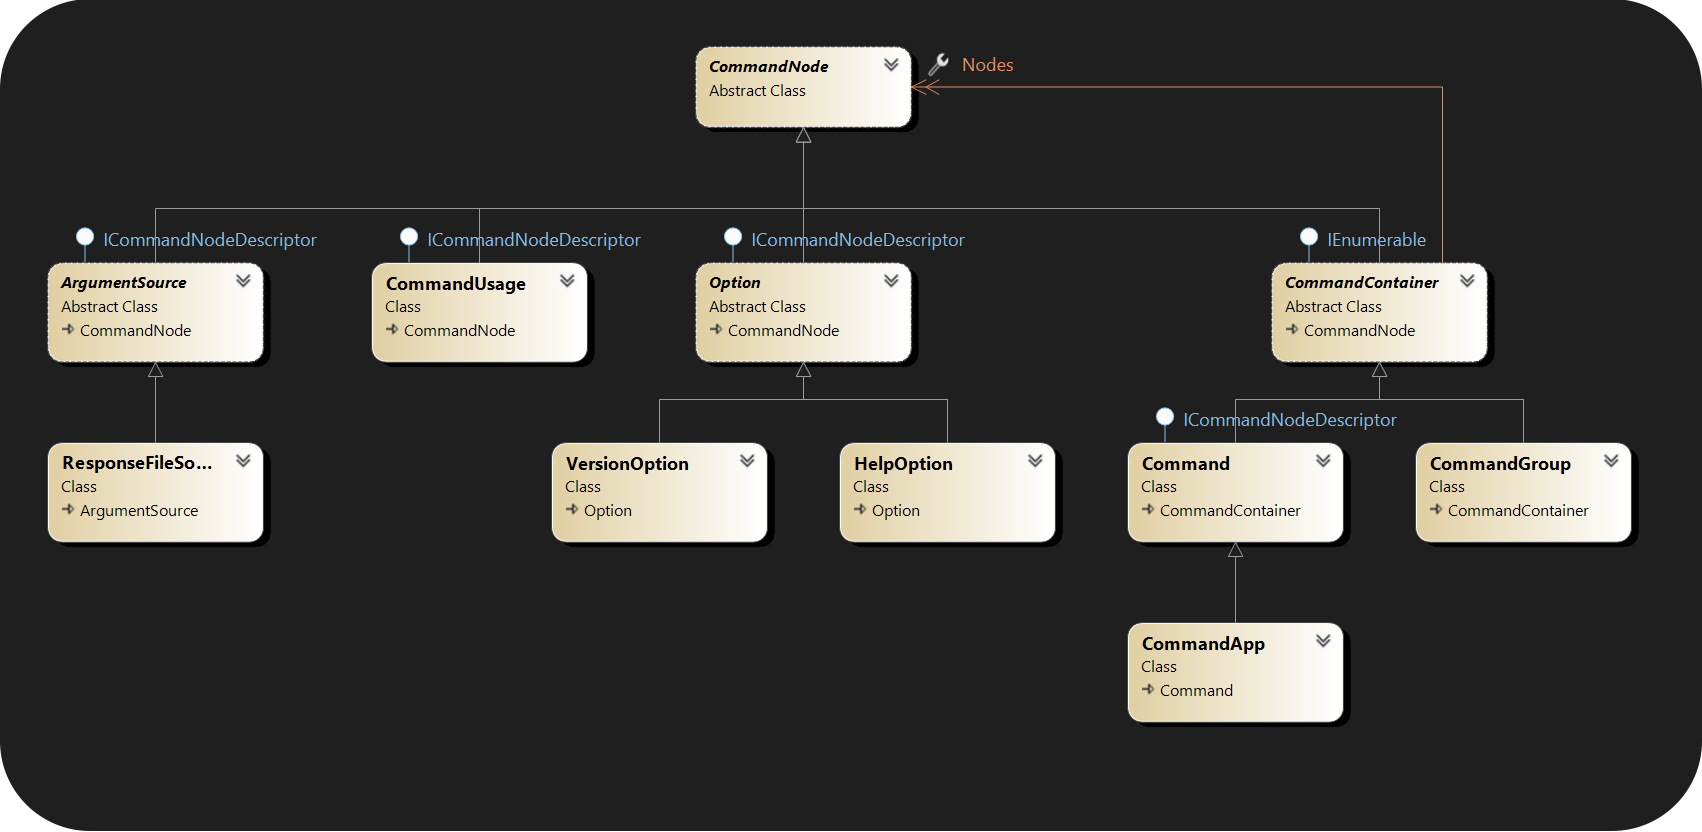
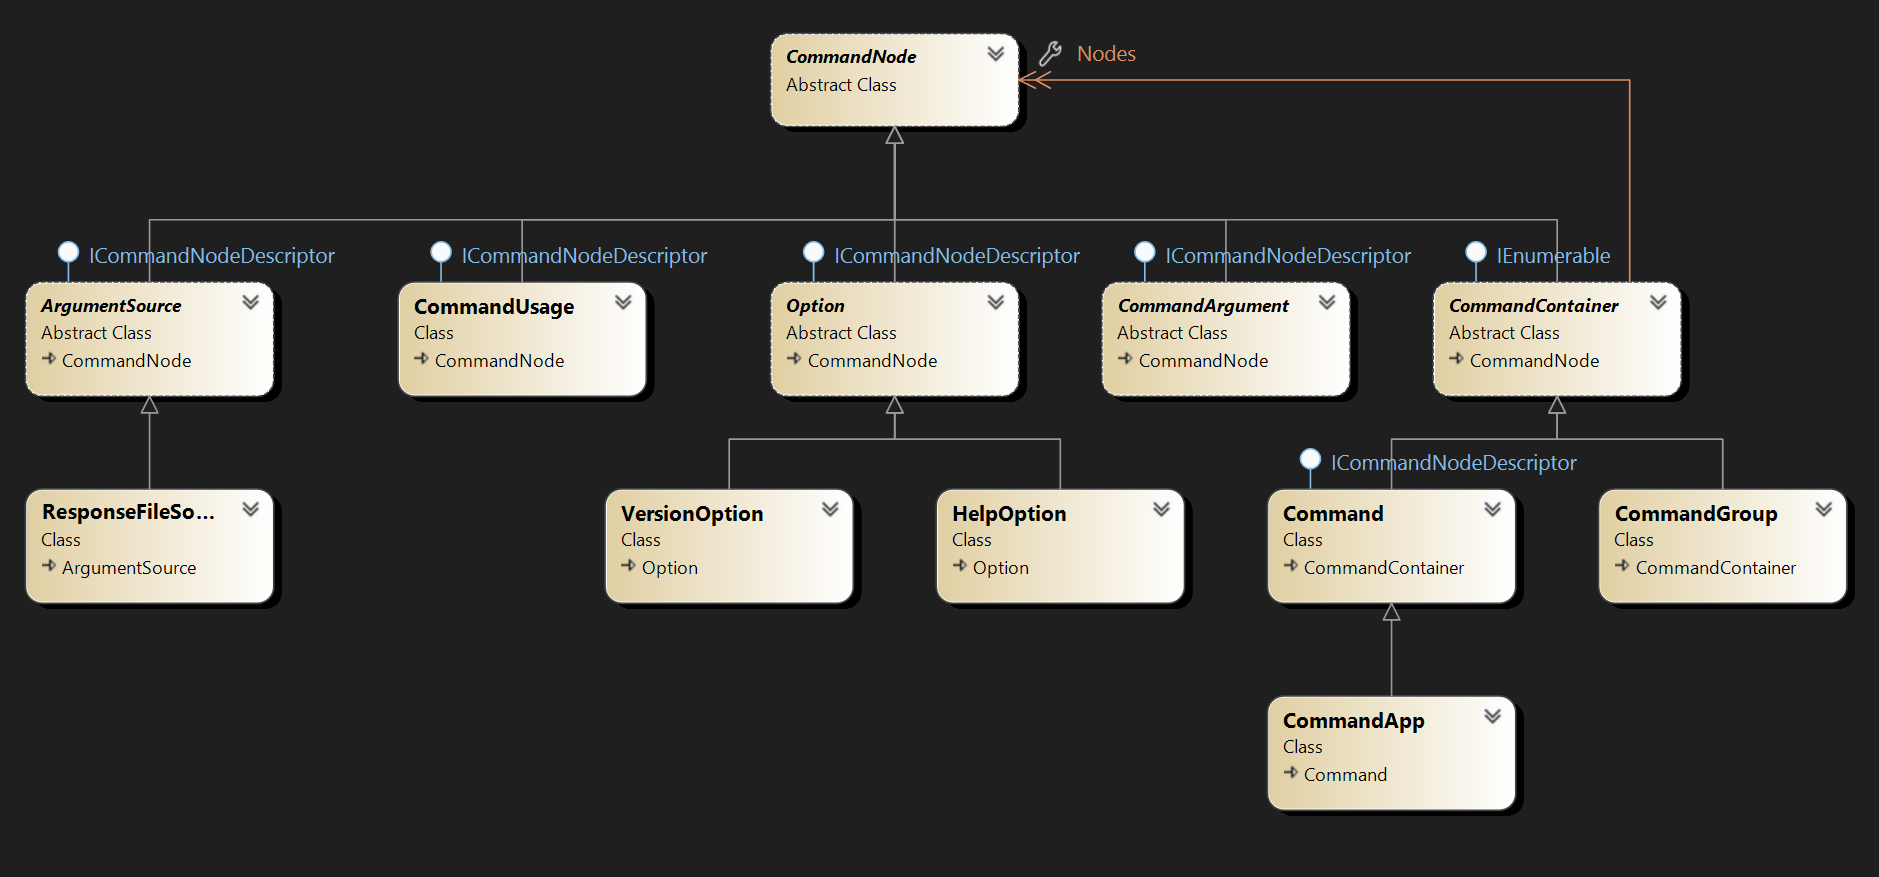
Add automatic CommandUsage

diff --git a/src/XenoAtom.CommandLine/Command.cs b/src/XenoAtom.CommandLine/Command.cs
@@ -892,32 +892,74 @@ public partial class Command  : CommandContainer, ICommandNodeDescriptor
         var _ = Config.Localizer;
         usage.Append(_("Usage: "));
         usage.Append(GetFullCommandPath());
-        if (_options.Count > 0)
+        var syntax = GetDefaultUsageSyntax();
+        if (syntax.Length > 0)
         {
-            usage.Append(" [");
-            usage.Append(OptionsName);
-            usage.Append(']');
+            usage.Append(' ');
+            usage.Append(syntax);
+        }
+        return usage.ToString();
+    }
+
+    internal string GetDefaultUsageSyntax()
+    {
+        var _ = Config.Localizer;
+
+        var hasVisibleOptions = false;
+        foreach (var node in Nodes)
+        {
+            if (node is not Option option)
+                continue;
+            if (!option.IsActive() || option.Hidden)
+                continue;
+            if (option.Names.Length == 1 && option.Names[0] == "<>")
+                continue;
+            hasVisibleOptions = true;
+            break;
         }
 
-        if (SubCommands.Count > 0)
+        var hasVisibleSubCommands = false;
+        foreach (var node in Nodes)
         {
-            usage.Append(_(" COMMAND"));
+            if (node is not Command command)
+                continue;
+            if (!command.IsActive() || command.Hidden)
+                continue;
+            hasVisibleSubCommands = true;
+            break;
         }
 
+        var sb = new StringBuilder();
+
+        if (hasVisibleOptions)
+        {
+            sb.Append(_("[options]"));
+        }
+
+        if (hasVisibleSubCommands)
+        {
+            if (sb.Length > 0) sb.Append(' ');
+            sb.Append(_("<command>"));
+            return sb.ToString();
+        }
+
+        var hasListArgument = false;
         foreach (var argument in _arguments)
         {
             if (!argument.IsActive() || argument.Hidden)
                 continue;
-            usage.Append(' ');
-            usage.Append(argument.GetDisplayName());
+            if (sb.Length > 0) sb.Append(' ');
+            sb.Append(argument.GetDisplayName());
+            hasListArgument = argument.IsList;
         }
 
-        if (_options.TryGetValue("<>", out var def) && def.Description != null)
+        if (!hasListArgument && _options.TryGetValue("<>", out var def) && def.IsActive() && !def.Hidden)
         {
-            usage.Append(' ');
-            usage.Append(def.Description);
+            if (sb.Length > 0) sb.Append(' ');
+            sb.Append(def.Description ?? _("[<args>...]"));
         }
-        return usage.ToString();
+
+        return sb.ToString();
     }
     
 

diff --git a/src/XenoAtom.CommandLine/CommandUsage.cs b/src/XenoAtom.CommandLine/CommandUsage.cs
@@ -20,9 +20,14 @@ public class CommandUsage(string? description) : CommandNode, ICommandNodeDescri
     public const string NameMarker = "{NAME}";
 
     /// <summary>
+    /// Gets the marker used to replace the default syntax of the command (options/arguments/subcommands) from the description.
+    /// </summary>
+    public const string SyntaxMarker = "{SYNTAX}";
+
+    /// <summary>
     /// Creates a new instance of <see cref="CommandUsage"/>, the usage description will be automatically rendered.
     /// </summary>
-    public CommandUsage() : this(null)
+    public CommandUsage() : this("Usage: {NAME} {SYNTAX}")
     {
     }
 
@@ -33,11 +38,13 @@ public class CommandUsage(string? description) : CommandNode, ICommandNodeDescri
         {
             if (Parent != null && _description != null)
             {
-                var index = _description.IndexOf(NameMarker, StringComparison.OrdinalIgnoreCase);
-                if (index >= 0)
+                var command = GetCommand();
+                if (command != null)
                 {
-                    var fullCommandPath = GetFullCommandPath() ?? string.Empty;
-                    return $"{_description.Substring(0, index)}{fullCommandPath}{_description.Substring(index + NameMarker.Length)}";
+                    var result = _description;
+                    result = ReplaceMarker(result, NameMarker, command.GetFullCommandPath());
+                    result = ReplaceMarker(result, SyntaxMarker, command.GetDefaultUsageSyntax());
+                    return result;
                 }
             }
 
@@ -45,16 +52,25 @@ public class CommandUsage(string? description) : CommandNode, ICommandNodeDescri
         }
     }
     
-    private string? GetFullCommandPath()
+    private Command? GetCommand()
     {
         for (var c = (CommandNode)this; c != null; c = c.Parent)
         {
             if (c is Command command)
             {
-                return command.GetFullCommandPath();
+                return command;
             }
         }
 
         return null;
+    }
+
+    private static string ReplaceMarker(string value, string marker, string replacement)
+    {
+        var index = value.IndexOf(marker, StringComparison.OrdinalIgnoreCase);
+        if (index < 0)
+            return value;
+
+        return $"{value.Substring(0, index)}{replacement}{value.Substring(index + marker.Length)}";
     }
 }

diff --git a/src/XenoAtom.CommandLine.Tests/CommandLineBasicTests.cs b/src/XenoAtom.CommandLine.Tests/CommandLineBasicTests.cs
@@ -6,6 +6,26 @@ namespace XenoAtom.CommandLine.Tests;
 public class CommandLineBasicTests
 {
     [TestMethod]
+    public async Task CommandUsage_SyntaxMarker_IsExpanded()
+    {
+        CultureInfo.CurrentCulture = CultureInfo.InvariantCulture;
+
+        var writer = new StringWriter();
+        var app = new CommandApp("app")
+        {
+            new CommandUsage(),
+            { "n|name=", "Name", _ => { } },
+            new HelpOption(),
+            (ctx, _) => ValueTask.FromResult(0)
+        };
+
+        var result = await app.RunAsync(["--help"], new CommandRunConfig { Out = writer, Error = writer });
+
+        Assert.AreEqual(0, result);
+        Assert.IsTrue(writer.ToString().Contains("Usage: app [options]", StringComparison.Ordinal));
+    }
+
+    [TestMethod]
     public async Task PendingValue_MatchesSubcommandName_IsConsumedAsValue()
     {
         CultureInfo.CurrentCulture = CultureInfo.InvariantCulture;

diff --git a/src/XenoAtom.CommandLine.Tests/CommandArgumentTests.cs b/src/XenoAtom.CommandLine.Tests/CommandArgumentTests.cs
@@ -154,7 +154,7 @@ public class CommandArgumentTests
 
         Assert.AreEqual(0, result);
         var output = writer.ToString();
-        Assert.IsTrue(output.Contains("Usage: app [Options] <input> [<output>]", StringComparison.Ordinal));
+        Assert.IsTrue(output.Contains("Usage: app [options] <input> [<output>]", StringComparison.Ordinal));
         Assert.IsTrue(output.Contains("<input>", StringComparison.Ordinal));
         Assert.IsTrue(output.Contains("[<output>]", StringComparison.Ordinal));
     }

diff --git a/doc/readme.md b/doc/readme.md
@@ -54,7 +54,7 @@ int age = 0;
 
 var commandApp = new CommandApp()
 {
-    new CommandUsage("Usage: {NAME} [Options] [files]+"),
+    new CommandUsage(),
     _,
     "Options:",
     {"f|flag", "This is a flag", v => flag = v != null }, 
@@ -187,7 +187,7 @@ Random other tidbits:
   ```
   will display the following message:
   ```
-  Usage: HelloWorld [Options]
+  Usage: HelloWorld [options]
     -n, --name=NAME            Your NAME
     -a, --age=AGE              Your AGE
     -h, -?, --help             Show this message and exit
@@ -312,7 +312,7 @@ var app = new CommandApp("myexe")
 };
 ```
 
-Declared arguments are included in the default usage output (e.g. `Usage: myexe [Options] <input> [<output>]`).
+Declared arguments are included in the default usage output (e.g. `Usage: myexe [options] <input> [<output>]`).
 
 ## Help Text
 
@@ -333,11 +333,11 @@ await app.RunAsync(args);
 
 More in general, all the items (`CommandNode`: `Command`, `Option`, `string`, `ArgumentSource`, `Action`...) within a `Command` or a `CommandApp` are kept in order when displayed in the help message.
 
-There is a special kind of text called `CommandUsage` that will be displayed at the beginning of the help message. It is used to display the usage of the command.
+There is a special kind of text called `CommandUsage` that will be displayed at the beginning of the help message. It is used to display the usage of the command. You can use `{NAME}` to inject the full command path and `{SYNTAX}` to inject the default syntax derived from options/arguments/subcommands.
 
 ```csharp
 var app = new CommandApp() {
-    new CommandUsage("Usage: {NAME} [Options] [files]+"),
+    new CommandUsage(), // Defaults to "Usage: {NAME} {SYNTAX}"
     "Available commands:",
     // ...  
     new CommandUsage("Usage: {NAME} [--advanced] [Advanced Options]"),
@@ -361,7 +361,7 @@ int age = 0;
 
 var commandApp = new CommandApp()
 {
-    new CommandUsage("Usage: {NAME} [Options] [files]+"),
+    new CommandUsage(),
     _,
     "Options:",
     {"f|flag", "This is a flag", v => flag = v != null },
@@ -498,7 +498,7 @@ await app.RunAsync(["--help"]);
 will display the following message:
 
 ```
-Usage: myexe [Options]
+Usage: myexe [options]
 Options:
   -h, -?, --help             Show this message and exit
   @file                      Read response file for more options.
@@ -537,7 +537,7 @@ await app.RunAsync(["--help"]);
 will display the following message:
 
 ```
-Usage: HelloWorld [Options]
+Usage: HelloWorld [options]
 Options:
       --advanced             Activate advanced options
   -h, -?, --help             Show this message and exit
@@ -551,7 +551,7 @@ await app.RunAsync(["--advanced", "--help"]);
 It will display the following:
 
 ```
-Usage: HelloWorld [Options]
+Usage: HelloWorld [options]
 Options:
       --advanced             Activate advanced options
   -h, -?, --help             Show this message and exit

diff --git a/readme.md b/readme.md
@@ -93,7 +93,7 @@ await commandApp.RunAsync(args);
 Running `myexe --help` will output:
 
 ```
-Usage: myexe [Options] COMMAND
+Usage: myexe [options] <command>
 
   -D[=name:value]            Defines a name and optional value
   -n, --name=NAME            Your NAME
@@ -121,7 +121,7 @@ Define: World => 121
 Running `myexe commit --help` will output:
 
 ```
-Usage: myexe commit [Options]
+Usage: myexe commit [options]
 
   -m, --message=MESSAGE      Add a MESSAGE to this commit
   -h, -?, --help             Show this message and exit
